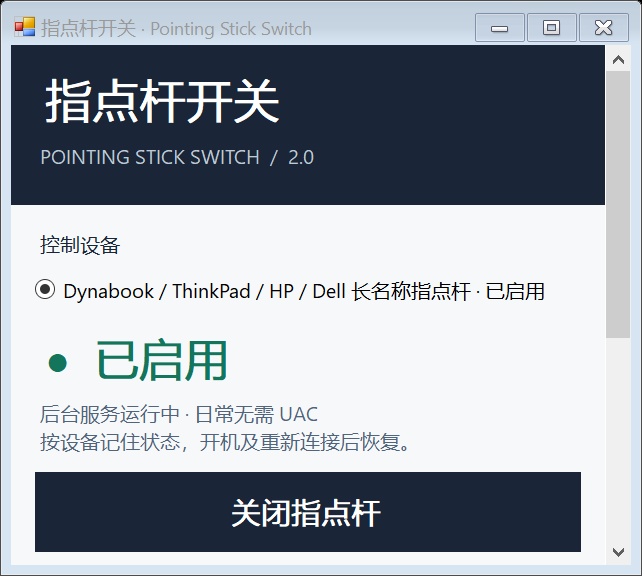
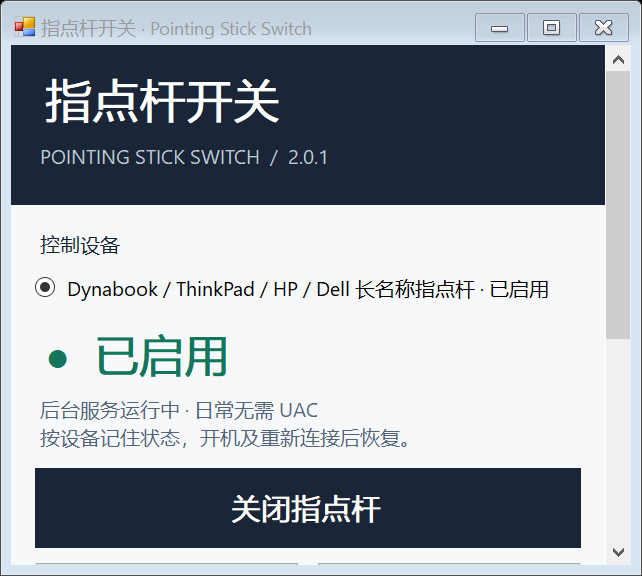
Size wrapped buttons for narrow windows and varying system fonts

diff --git a/src/Layout.cs b/src/Layout.cs
@@ -8,6 +8,19 @@ using System.Windows.Forms;
 
 namespace PointingStickSwitch
 {
+    internal sealed class WrappedButton : Button
+    {
+        public override Size GetPreferredSize(Size proposedSize)
+        {
+            var natural = base.GetPreferredSize(Size.Empty);
+            int width = MaximumSize.Width > 0 ? Math.Min(natural.Width, MaximumSize.Width) : natural.Width;
+            if (proposedSize.Width > 0) width = Math.Min(width, proposedSize.Width);
+            var text = TextRenderer.MeasureText(Text, Font, new Size(Math.Max(1, width - Padding.Horizontal - 8), Int32.MaxValue), TextFormatFlags.WordBreak | TextFormatFlags.TextBoxControl);
+            return new Size(width, Math.Max(natural.Height, text.Height + Padding.Vertical + 8));
+        }
+        internal static int NaturalWidth(Button button)
+        { return TextRenderer.MeasureText(button.Text, button.Font).Width + button.Padding.Horizontal + 12; }
+    }
     internal sealed class ResponsiveButtonRow : TableLayoutPanel
     {
         private readonly Button left, right;
@@ -32,7 +45,7 @@ namespace PointingStickSwitch
         {
             if (!arranging && left != null && right != null)
             {
-                int need = Math.Max(left.GetPreferredSize(Size.Empty).Width, right.GetPreferredSize(Size.Empty).Width);
+                int need = Math.Max(WrappedButton.NaturalWidth(left), WrappedButton.NaturalWidth(right));
                 bool stack = ClientSize.Width < 2 * (need + LogicalToDeviceUnits(6));
                 if (stack != stacked)
                 {
@@ -49,6 +62,8 @@ namespace PointingStickSwitch
                     right.Margin = stack ? Padding.Empty : new Padding(gap, 0, 0, 0);
                     ResumeLayout(false); arranging = false;
                 }
+                int available = Math.Max(1, stacked ? ClientSize.Width : ClientSize.Width / 2 - LogicalToDeviceUnits(6));
+                left.MaximumSize = right.MaximumSize = new Size(available, 0);
             }
             base.OnLayout(e);
         }

diff --git a/src/MainForm.cs b/src/MainForm.cs
@@ -13,7 +13,7 @@ namespace PointingStickSwitch
     {
         private readonly Label state = new Label(), note = new Label(), detail = new Label();
         private readonly TableLayoutPanel selector = Panel(0);
-        private readonly Button toggle = new Button(), enable = new Button(), refresh = new Button(), install = new Button(), diagnose = new Button();
+        private readonly Button toggle = new WrappedButton(), enable = new WrappedButton(), refresh = new WrappedButton(), install = new WrappedButton(), diagnose = new WrappedButton();
         private readonly Panel viewport = new Panel();
         private readonly TableLayoutPanel root;
         private bool busy, updating;
@@ -97,7 +97,7 @@ namespace PointingStickSwitch
         private static Label Label(string text, Font font, Color color) { var label = new Label { Text = text, Font = font, ForeColor = color }; InitLabel(label); return label; }
         private static void Wrap(TableLayoutPanel panel)
         {
-            Action wrap = delegate { foreach (Control c in panel.Controls) if (c is Label) c.MaximumSize = new Size(Math.Max(1, panel.ClientSize.Width - panel.Padding.Horizontal - c.Margin.Horizontal), 0); };
+            Action wrap = delegate { foreach (Control c in panel.Controls) if (c is Label || c is Button) c.MaximumSize = new Size(Math.Max(1, panel.ClientSize.Width - panel.Padding.Horizontal - c.Margin.Horizontal), 0); };
             panel.SizeChanged += delegate { wrap(); }; wrap();
         }
         private void Fit()

diff --git a/CHANGELOG.md b/CHANGELOG.md
@@ -12,6 +12,7 @@
 - 卸载准备失败后尝试恢复仍存在的服务；诊断文件不再直接输出逻辑设备 PnP 标识。
 - 统一版本来源，加入 MIT 许可、第三方说明、独立构建目录、Windows CI 和发布校验清单。
 - 修复窄窗口中原生单选框截断长设备名的问题，使用独立可换行标签，并检查实际文字测量高度。
+- 修复不同系统字体下高缩放窄窗口按钮高度不足的问题，按可用宽度计算换行文字的高度。
 - 新增 27 项回归断言；x64/x86 每套共 13,670 项。保留既有实机测试的版本与局限。
 
 ## 2.0.0 — 本地版本
